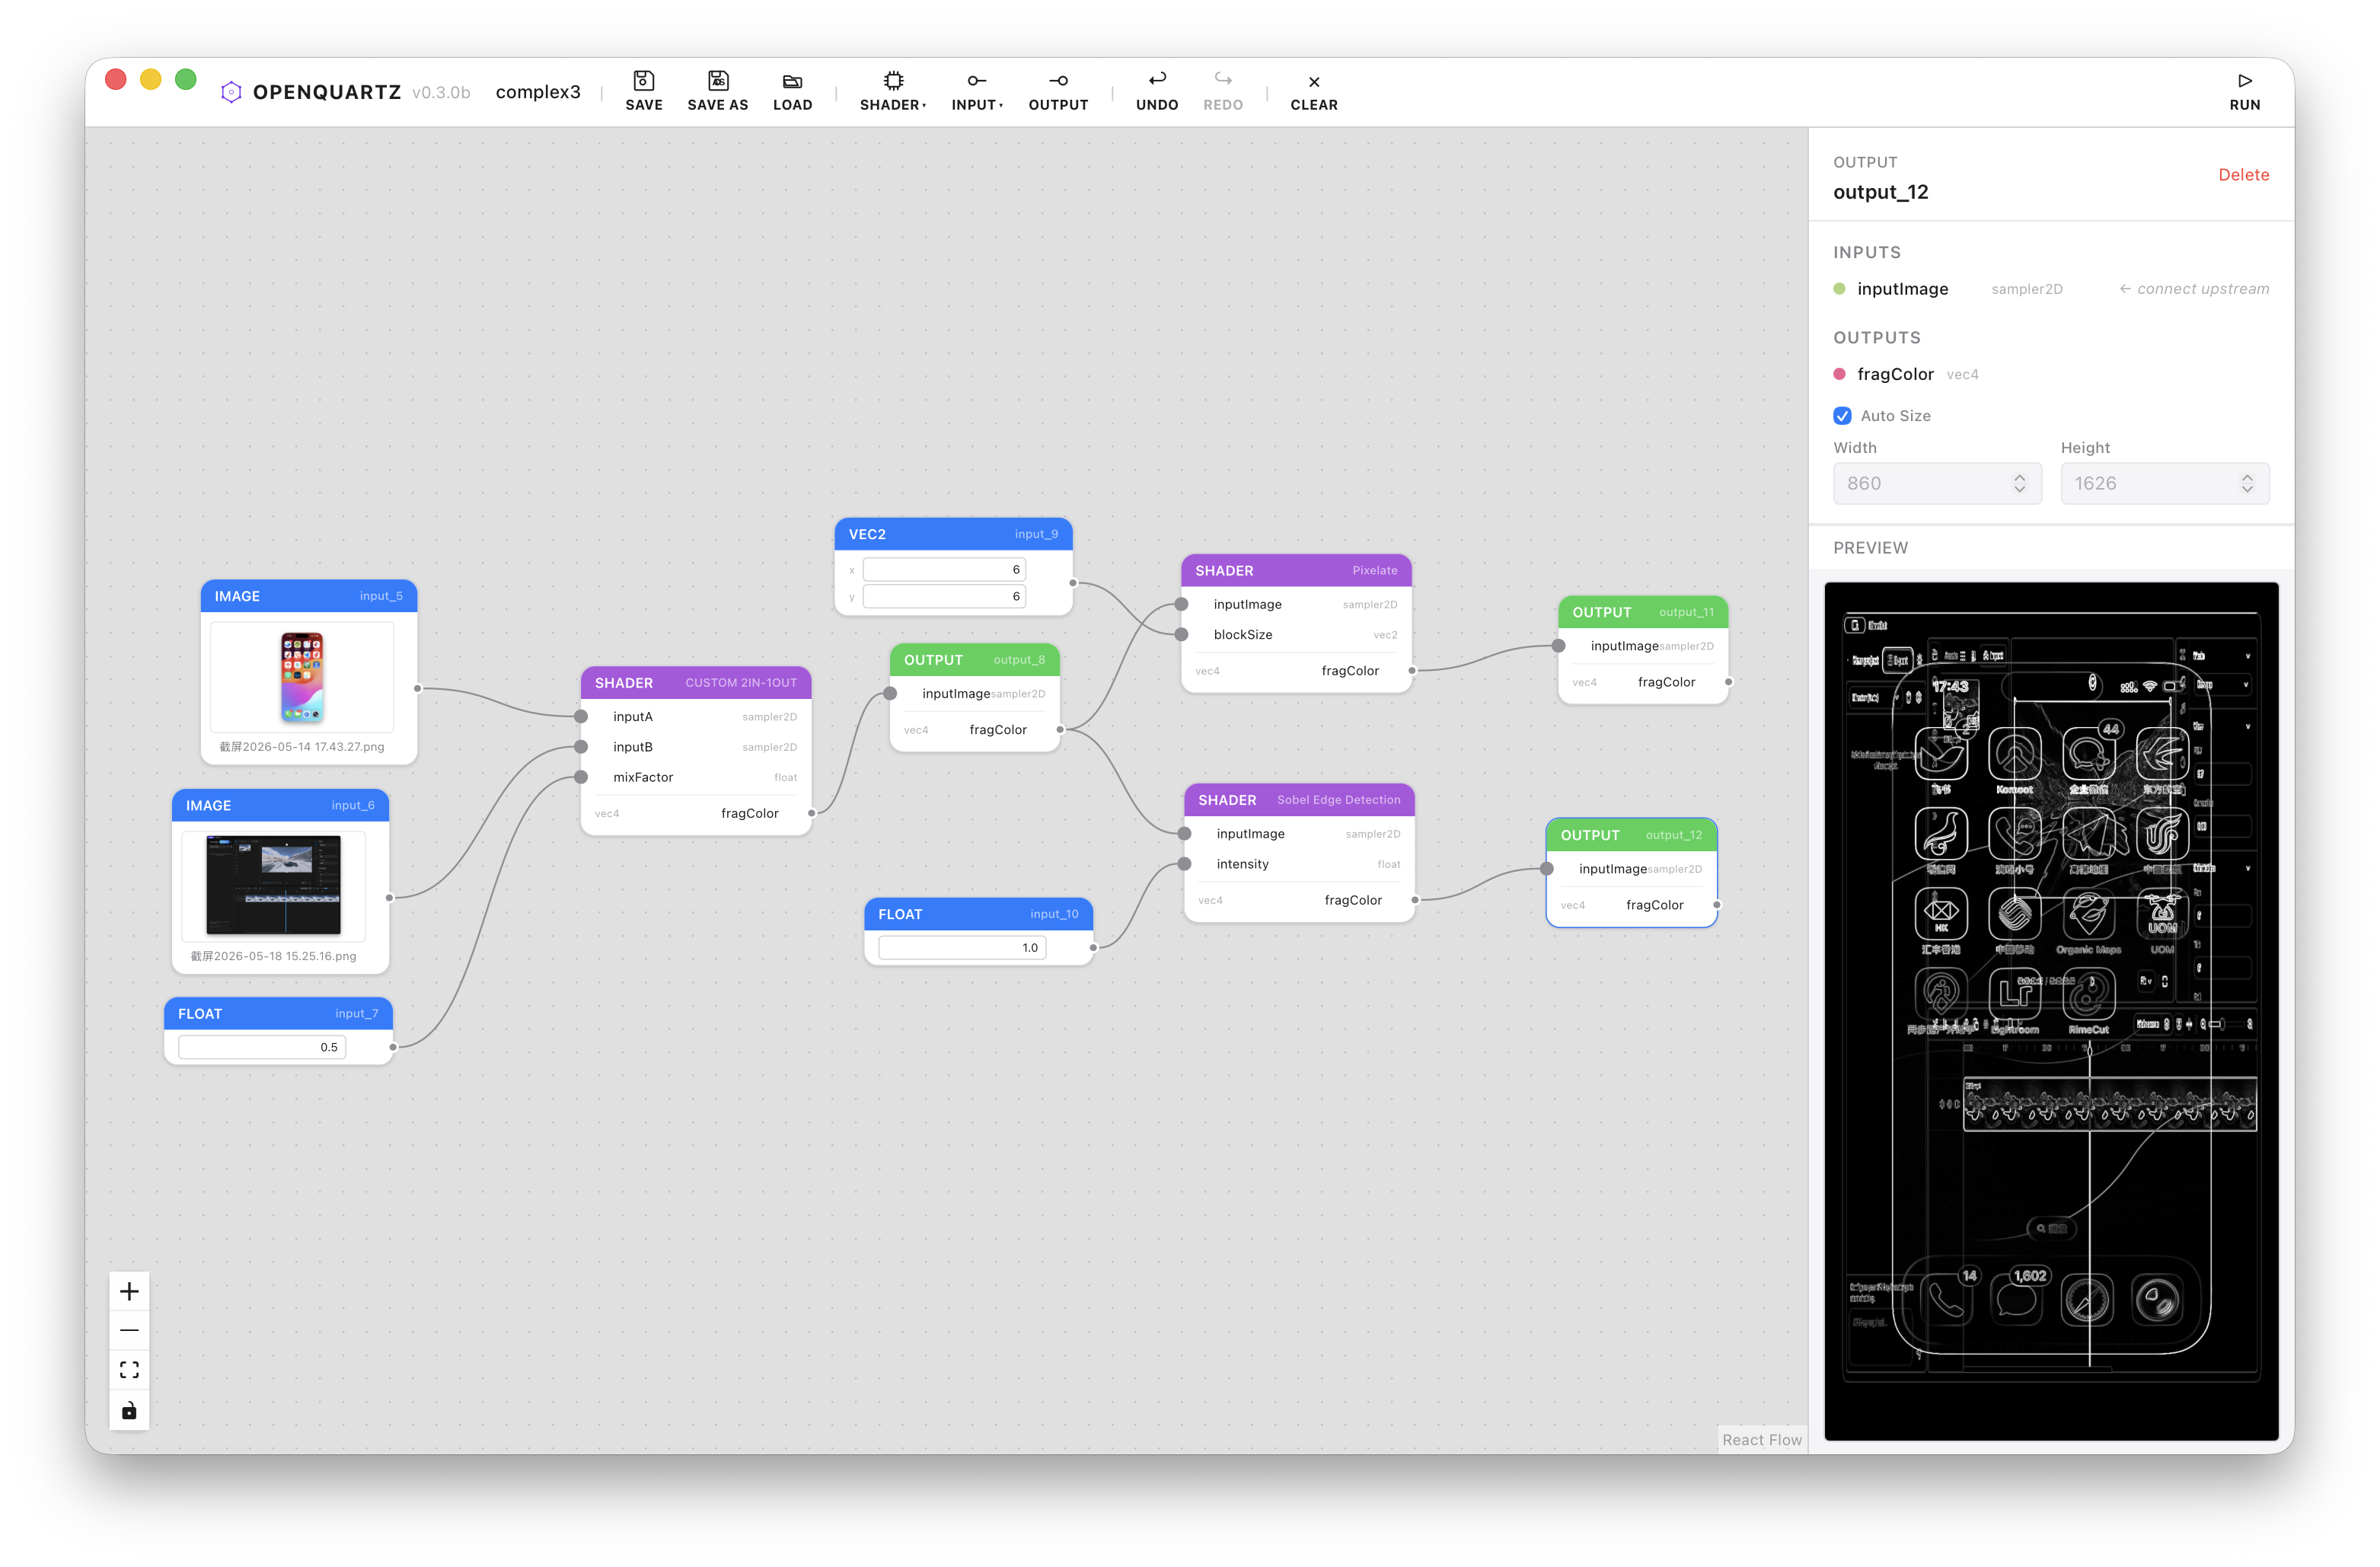
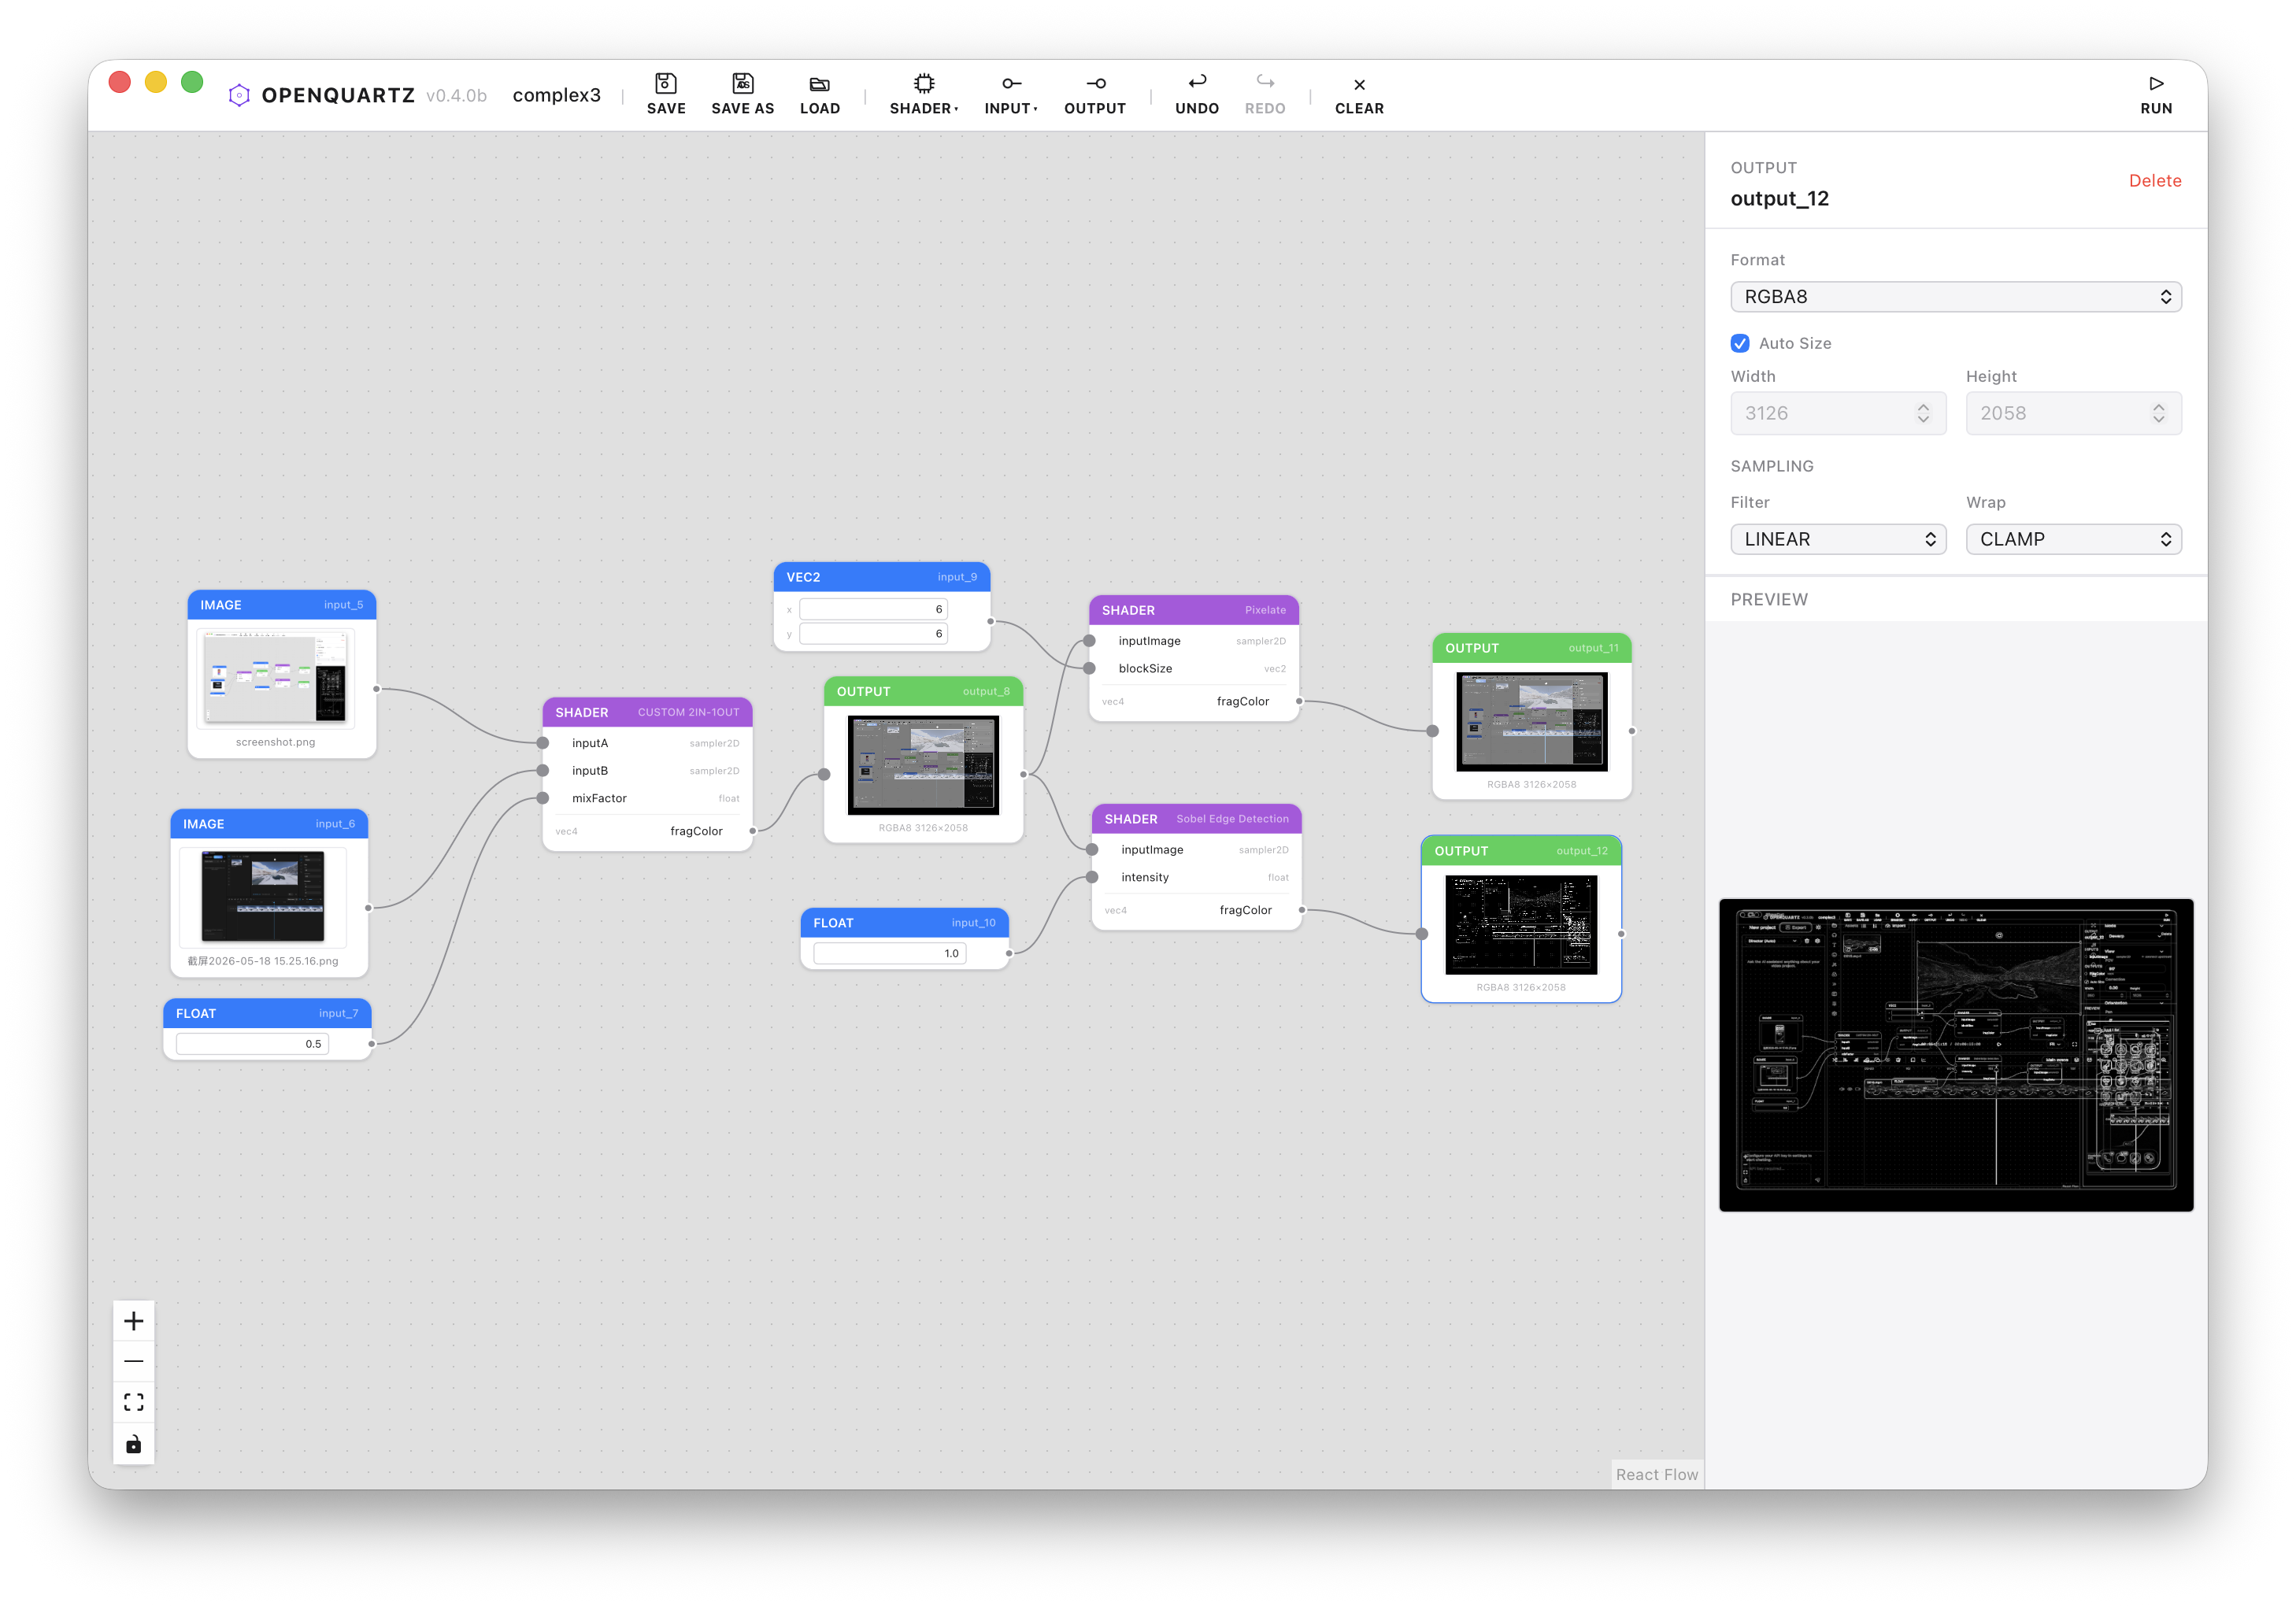
feat: output node as framebuffer — format, sampling, thumbnail card
Redesign output node to match framebuffer input pattern:
- Card shows single-row layout with input/output handles and thumbnail
- Side panel adds Format (RGBA8/RGBA32F/RG8/RG32F/R8/R32F), sampling
  config (Filter + Wrap), alongside existing Auto Size controls
- Engine creates render targets with the selected format and applies
  texture sampling parameters

diff --git a/src/components/NodeGraph/nodes/OutputNode.tsx b/src/components/NodeGraph/nodes/OutputNode.tsx
@@ -3,7 +3,6 @@ import type { ShaderNodeData } from '../../../types';
 import { useGraphStore } from '../../../store/useGraphStore';
 
 const PORT_COLOR = '#8e8e93';
-const ROW_H = 26;
 const HEADER_H = 28;
 
 type OutputNodeType = Node<ShaderNodeData>;
@@ -13,10 +12,14 @@ export function OutputNode({ id, data, selected }: NodeProps<OutputNodeType>) {
   const nodeErrors = useGraphStore((s) => s.nodeErrors);
   const edges = useGraphStore((s) => s.edges);
   const error = nodeErrors[id];
-  const hasOutput = !!outputPreviews[id];
+  const preview = outputPreviews[id];
   let accent = '#8e8e93';
   if (error) accent = '#ff3b30';
-  else if (hasOutput) accent = '#30d158';
+  else if (preview) accent = '#30d158';
+
+  const inputPort = data.inputs[0];
+  const outputPort = data.outputs[0];
+  const inputConnected = inputPort && edges.some((e) => e.targetHandle === inputPort.id);
 
   return (
     <div
@@ -32,57 +35,48 @@ export function OutputNode({ id, data, selected }: NodeProps<OutputNodeType>) {
         <span className="ml-auto text-[10px] text-white/60 font-medium">{data.label}</span>
       </div>
 
-      {/* Input handles */}
-      <div style={{ paddingTop: 2, paddingBottom: 2 }}>
-        {data.inputs.map((port) => {
-          const connected = edges.some((e) => e.targetHandle === port.id);
-          return (
-            <div
-              key={port.id}
-              className="flex items-center text-[11px] text-[#1d1d1f] px-3"
-              style={{ height: ROW_H, position: 'relative' }}
-            >
-              <Handle
-                type="target"
-                position={Position.Left}
-                id={port.id}
-                className="!w-3 !h-3 !border-2"
-                style={{
-                  borderColor: PORT_COLOR,
-                  backgroundColor: connected ? PORT_COLOR : 'transparent',
-                }}
-              />
-              <span className="ml-4">{port.label}</span>
-              <span className="ml-auto text-[9px] text-[#aeaeb2]">{port.dataType}</span>
+      <div className="flex items-stretch">
+        {inputPort && (
+          <div className="relative w-3 flex items-center">
+            <Handle
+              type="target"
+              position={Position.Left}
+              id={inputPort.id}
+              className="!w-3 !h-3 !border-2"
+              style={{
+                borderColor: PORT_COLOR,
+                backgroundColor: inputConnected ? PORT_COLOR : 'transparent',
+              }}
+            />
+          </div>
+        )}
+
+        <div className="flex-1 min-w-0 p-2">
+          {preview ? (
+            <img src={preview} alt="preview" className="w-full h-24 object-contain rounded border border-[#e8e8ed]" style={{ imageRendering: 'pixelated' }} />
+          ) : (
+            <div className="flex items-center justify-center text-[11px] text-[#aeaeb2] border-2 border-dashed border-[#d2d2d7] rounded" style={{ height: 80 }}>
+              Press Run to preview
             </div>
-          );
-        })}
-      </div>
+          )}
+          {data.resolvedWidth && data.resolvedHeight && (
+            <div className="text-[9px] text-[#aeaeb2] text-center mt-1">
+              {(data.outFormat ?? 'rgba8').toUpperCase()} {data.resolvedWidth}×{data.resolvedHeight}
+            </div>
+          )}
+        </div>
 
-      {/* Divider if both input and output ports exist */}
-      {data.inputs.length > 0 && data.outputs.length > 0 && (
-        <div className="mx-3 border-t border-[#f0f0f0]" />
-      )}
-
-      {/* Output handles */}
-      <div style={{ paddingTop: 2, paddingBottom: 6 }}>
-        {data.outputs.map((port) => (
-          <div
-            key={port.id}
-            className="flex items-center justify-end text-[11px] text-[#1d1d1f] px-3"
-            style={{ height: ROW_H, position: 'relative' }}
-          >
-            <span className="mr-auto text-[9px] text-[#aeaeb2]">{port.dataType}</span>
-            <span className="mr-4">{port.label}</span>
+        {outputPort && (
+          <div className="relative w-3 flex items-center">
             <Handle
               type="source"
               position={Position.Right}
-              id={port.id}
+              id={outputPort.id}
               className="!w-2.5 !h-2.5 !border-2 !border-white"
               style={{ backgroundColor: PORT_COLOR }}
             />
           </div>
-        ))}
+        )}
       </div>
     </div>
   );

diff --git a/src/components/SidePanel/index.tsx b/src/components/SidePanel/index.tsx
@@ -17,6 +17,15 @@ const FB_FORMATS: { label: string; value: FramebufferFormat }[] = [
 ];
 
 
+const OUT_FORMATS: { label: string; value: FramebufferFormat }[] = [
+  { label: 'RGBA8', value: 'rgba8' },
+  { label: 'RGBA32F', value: 'rgba32f' },
+  { label: 'RG8', value: 'rg8' },
+  { label: 'RG32F', value: 'rg32f' },
+  { label: 'R8', value: 'r8' },
+  { label: 'R32F', value: 'r32f' },
+];
+
 export function SidePanel() {
   const { nodes, selectedNodeId, updateNodeData, removeNode, outputPreviews, nodeErrors } = useGraphStore();
   const selectedNode = nodes.find((n) => n.id === selectedNodeId);
@@ -107,19 +116,26 @@ export function SidePanel() {
         </div>
       )}
 
-      {/* Output node: inputs, size controls, then preview */}
+      {/* Output node: format, size, sampling, preview */}
       {data.type === 'output' ? (
         <>
           <div className="px-4 py-3 border-b border-[#e8e8ed] overflow-y-auto flex-shrink-0">
-            <PortInspector
-              inputs={data.inputs}
-              outputs={data.outputs}
-              uniforms={data.uniforms}
-              onUniformChange={handleUniformChange}
-            />
+            {/* Format */}
+            <div className="mb-3">
+              <label className="block text-[10px] text-[#86868b] font-medium mb-0.5">Format</label>
+              <select
+                value={data.outFormat ?? 'rgba8'}
+                onChange={(e) => updateNodeData(selectedNodeId!, { outFormat: e.target.value as FramebufferFormat })}
+                className="w-full text-[12px] text-[#1d1d1f] bg-[#f5f5f7] rounded px-2 py-1 border border-[#d2d2d7] outline-none focus:border-[#007aff]"
+              >
+                {OUT_FORMATS.map((f) => (
+                  <option key={f.value} value={f.value}>{f.label}</option>
+                ))}
+              </select>
+            </div>
 
             {/* Width / Height controls */}
-            <div className="mt-3">
+            <div className="mb-3">
               <label className="flex items-center gap-1.5 text-[10px] text-[#86868b] font-medium mb-1.5 cursor-pointer">
                 <input
                   type="checkbox"
@@ -184,6 +200,36 @@ export function SidePanel() {
                   </div>
                 </div>
               )}
+            </div>
+
+            {/* Sampling */}
+            <div>
+              <div className="text-[10px] text-[#86868b] font-medium mb-2">SAMPLING</div>
+              <div className="flex items-center gap-3">
+                <div className="flex-1">
+                  <label className="block text-[10px] text-[#86868b] font-medium mb-0.5">Filter</label>
+                  <select
+                    value={data.texFilter ?? 'linear'}
+                    onChange={(e) => updateNodeData(selectedNodeId!, { texFilter: e.target.value as TextureFilter })}
+                    className="w-full text-[12px] text-[#1d1d1f] bg-[#f5f5f7] rounded px-2 py-1 border border-[#d2d2d7] outline-none focus:border-[#007aff]"
+                  >
+                    <option value="linear">LINEAR</option>
+                    <option value="nearest">NEAREST</option>
+                  </select>
+                </div>
+                <div className="flex-1">
+                  <label className="block text-[10px] text-[#86868b] font-medium mb-0.5">Wrap</label>
+                  <select
+                    value={data.texWrap ?? 'clamp'}
+                    onChange={(e) => updateNodeData(selectedNodeId!, { texWrap: e.target.value as TextureWrap })}
+                    className="w-full text-[12px] text-[#1d1d1f] bg-[#f5f5f7] rounded px-2 py-1 border border-[#d2d2d7] outline-none focus:border-[#007aff]"
+                  >
+                    <option value="clamp">CLAMP</option>
+                    <option value="repeat">REPEAT</option>
+                    <option value="mirror">MIRROR</option>
+                  </select>
+                </div>
+              </div>
             </div>
           </div>
           <div className="flex-1 flex flex-col min-h-0 border-t border-[#e8e8ed]">

diff --git a/src/engine/webglRenderer.ts b/src/engine/webglRenderer.ts
@@ -54,12 +54,26 @@ export class WebGLRenderer {
     this.renderer.setSize(width, height);
   }
 
-  createTarget(id: string, width: number, height: number, float = false) {
+  createTarget(id: string, width: number, height: number, float = false, fbFormat?: FramebufferFormat) {
+    let format: THREE.PixelFormat = THREE.RGBAFormat;
+    let type: THREE.TextureDataType = float ? THREE.HalfFloatType : THREE.UnsignedByteType;
+
+    if (fbFormat) {
+      switch (fbFormat) {
+        case 'rgba8': format = THREE.RGBAFormat; type = THREE.UnsignedByteType; break;
+        case 'rgba32f': format = THREE.RGBAFormat; type = THREE.FloatType; break;
+        case 'rg8': format = THREE.RGFormat; type = THREE.UnsignedByteType; break;
+        case 'rg32f': format = THREE.RGFormat; type = THREE.FloatType; break;
+        case 'r8': format = THREE.RedFormat; type = THREE.UnsignedByteType; break;
+        case 'r32f': format = THREE.RedFormat; type = THREE.FloatType; break;
+      }
+    }
+
     const target = new THREE.WebGLRenderTarget(width, height, {
       minFilter: THREE.LinearFilter,
       magFilter: THREE.LinearFilter,
-      format: THREE.RGBAFormat,
-      type: float ? THREE.HalfFloatType : THREE.UnsignedByteType,
+      format,
+      type,
     });
     this.targets.set(id, target);
     return target;

diff --git a/src/engine/executionEngine.ts b/src/engine/executionEngine.ts
@@ -227,7 +227,14 @@ export class ExecutionEngine {
 
           const outW = (node.data.width as number) || w;
           const outH = (node.data.height as number) || h;
-          const target = this.renderer.createTarget(nodeId, outW, outH);
+          const outFormat = node.data.outFormat;
+          const isFloat = outFormat === 'rgba32f' || outFormat === 'rg32f' || outFormat === 'r32f';
+          const target = this.renderer.createTarget(nodeId, outW, outH, isFloat, outFormat);
+
+          if (node.data.texFilter || node.data.texWrap) {
+            this.renderer.applyTextureSampling(target.texture, node.data.texFilter, node.data.texWrap);
+          }
+
           this.renderer.renderWithMaterial(material, target);
           textures.set(nodeId, { kind: 'fbo', target });
 

diff --git a/src/types/index.ts b/src/types/index.ts
@@ -44,6 +44,12 @@ export interface ShaderNodeData {
   rawFileName?: string;
   texFilter?: TextureFilter;
   texWrap?: TextureWrap;
+  width?: number;
+  height?: number;
+  autoSize?: boolean;
+  resolvedWidth?: number;
+  resolvedHeight?: number;
+  outFormat?: FramebufferFormat;
   [key: string]: unknown;
 }
 